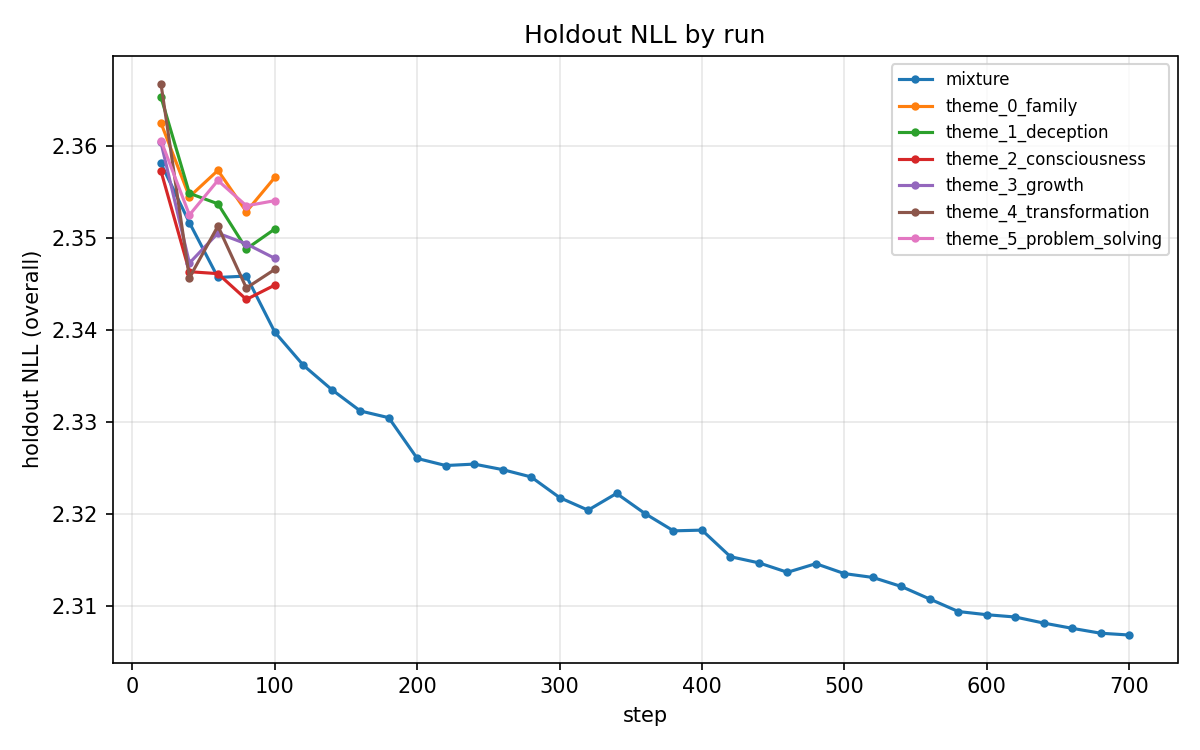
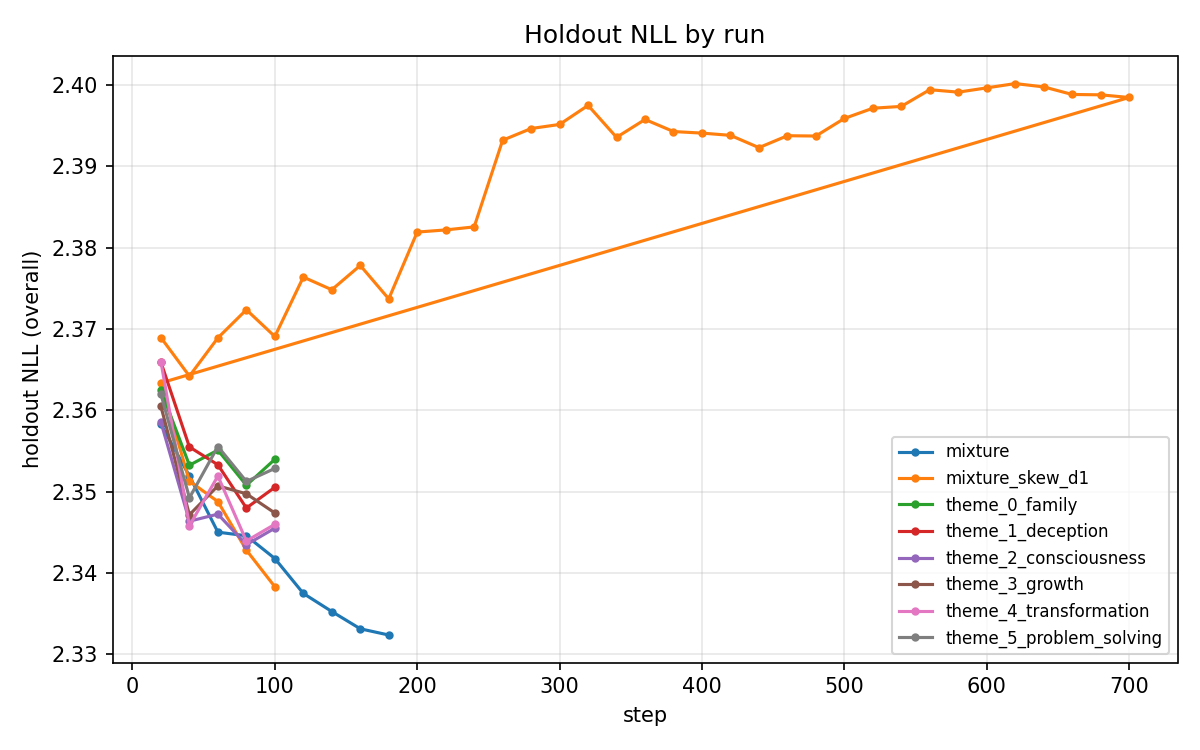
non uniform experiment

diff --git a/eval_skewed.py b/eval_skewed.py
@@ -1,0 +1,98 @@
+"""Re-aggregate a run's per-theme holdout NLL under a skewed weighting.
+
+The training run already wrote per-theme NLL into `<run>/holdout_metrics.jsonl`.
+We just re-weight those columns with `exp(-decay * i)` weights (the same form
+used to build the skewed train mixture) and overlay against the uniform-
+weighted overall NLL.
+
+The point: if the lack of a "productive learning phase" in the skewed-mixture
+run was caused by train/eval distribution mismatch, then evaluating against
+a *matching* skewed holdout should restore an initial decreasing period.
+
+Usage:
+    python eval_skewed.py --run runs/mixture_skew_d1 --decay 1.0
+"""
+
+from __future__ import annotations
+
+import argparse
+import json
+import math
+from pathlib import Path
+
+import matplotlib.pyplot as plt
+import pandas as pd
+
+
+def theme_order(data_dir: Path) -> list[str]:
+    """Return theme names in the same order as `data/theme_<i>_*.jsonl`."""
+    names: list[str] = []
+    for p in sorted(data_dir.glob("theme_*.jsonl")):
+        with p.open(encoding="utf-8") as f:
+            first = json.loads(next(line for line in f if line.strip()))
+        names.append(first["theme"])
+    if not names:
+        raise FileNotFoundError(f"no theme_*.jsonl under {data_dir}")
+    return names
+
+
+def main() -> None:
+    ap = argparse.ArgumentParser()
+    ap.add_argument("--run", required=True, help="path to run dir")
+    ap.add_argument("--data_dir", default="data")
+    ap.add_argument("--decay", type=float, default=1.0)
+    ap.add_argument("--out", default=None,
+                    help="output png path; defaults to <run>/skewed_eval.png")
+    args = ap.parse_args()
+
+    run = Path(args.run)
+    metrics_path = run / "holdout_metrics.jsonl"
+    rows = [json.loads(l) for l in metrics_path.read_text().splitlines() if l.strip()]
+    df = pd.DataFrame(rows).sort_values("step").reset_index(drop=True)
+
+    themes = theme_order(Path(args.data_dir))
+    raw = [math.exp(-args.decay * i) for i in range(len(themes))]
+    z = sum(raw)
+    weights = [w / z for w in raw]
+
+    cols = [f"holdout/nll[{t}]" for t in themes]
+    missing = [c for c in cols if c not in df.columns]
+    if missing:
+        raise SystemExit(f"missing columns in metrics: {missing}")
+
+    df["holdout/nll_skew"] = sum(w * df[c] for w, c in zip(weights, cols))
+
+    out = Path(args.out) if args.out else run / "skewed_eval.png"
+    fig, ax = plt.subplots(figsize=(8, 5))
+    ax.plot(df["step"], df["holdout/nll_overall"], label="uniform holdout",
+            color="C0", marker="o", markersize=3)
+    ax.plot(df["step"], df["holdout/nll_skew"],
+            label=f"skew-weighted holdout (decay={args.decay})",
+            color="C3", marker="o", markersize=3)
+    ax.set_xlabel("step")
+    ax.set_ylabel("holdout NLL")
+    ax.set_title(f"{run.name}: uniform vs skew-weighted holdout")
+    ax.legend()
+    ax.grid(True, alpha=0.3)
+    fig.tight_layout()
+    fig.savefig(out, dpi=150)
+    plt.close(fig)
+
+    print(f"Wrote {out}\n")
+    print("Theme weights:")
+    for t, w in zip(themes, weights):
+        print(f"  {t:<20}  {w:.4f}")
+    print()
+    first, last = df.iloc[0], df.iloc[-1]
+    print(f"step {int(first['step']):>4}:  uniform={first['holdout/nll_overall']:.4f}  "
+          f"skew={first['holdout/nll_skew']:.4f}")
+    print(f"step {int(last['step']):>4}:  uniform={last['holdout/nll_overall']:.4f}  "
+          f"skew={last['holdout/nll_skew']:.4f}")
+    print(f"Δuniform = {last['holdout/nll_overall'] - first['holdout/nll_overall']:+.4f}")
+    print(f"Δskew    = {last['holdout/nll_skew'] - first['holdout/nll_skew']:+.4f}")
+    print(f"min skew = {df['holdout/nll_skew'].min():.4f}  "
+          f"@ step {int(df.loc[df['holdout/nll_skew'].idxmin(), 'step'])}")
+
+
+if __name__ == "__main__":
+    main()

diff --git a/personaDataset.py b/personaDataset.py
@@ -1,5 +1,7 @@
 import json
+import math
 import os
+import random
 from pathlib import Path
 from typing import Sequence
 
@@ -133,6 +135,67 @@ def build_theme_splits(
     paths["holdout"] = holdout_path
 
     return paths
+
+
+def build_skewed_mixture(
+    output_path: str | Path,
+    data_dir: str | Path = "data",
+    decay: float = 1.0,
+    total_size: int | None = None,
+    random_state: int = 0,
+) -> Path:
+    """Build an exp-decay-weighted mixture jsonl from existing per-theme jsonls.
+
+    Reads sorted `data_dir/theme_*.jsonl` (so the uniform holdout is untouched),
+    assigns theme weights w_i = exp(-decay * i) / Z, and samples each theme
+    *with replacement* to hit floor(w_i * total_size) rows. Rounding leftovers
+    go to the highest-weight themes. Default `total_size` matches the sum of
+    the input theme files, i.e. the size of the uniform mixture.
+
+    Theme ordering follows the filename sort, which matches the
+    frequency-rank order produced by `build_theme_splits` (theme_0 = most
+    common in the source split, theme_5 = least).
+    """
+    data_dir = Path(data_dir)
+    theme_files = sorted(data_dir.glob("theme_*.jsonl"))
+    if not theme_files:
+        raise FileNotFoundError(f"no theme_*.jsonl under {data_dir}")
+
+    rows_per_theme: list[list[dict]] = []
+    for p in theme_files:
+        with p.open(encoding="utf-8") as f:
+            rows_per_theme.append([json.loads(line) for line in f if line.strip()])
+
+    n_themes = len(theme_files)
+    raw = [math.exp(-decay * i) for i in range(n_themes)]
+    s = sum(raw)
+    weights = [w / s for w in raw]
+
+    if total_size is None:
+        total_size = sum(len(r) for r in rows_per_theme)
+
+    counts = [int(w * total_size) for w in weights]
+    leftover = total_size - sum(counts)
+    for i in sorted(range(n_themes), key=lambda j: -weights[j])[:leftover]:
+        counts[i] += 1
+
+    rng = random.Random(random_state)
+    all_rows: list[dict] = []
+    for theme_rows, n in zip(rows_per_theme, counts):
+        if n > 0:
+            all_rows.extend(rng.choices(theme_rows, k=n))
+    rng.shuffle(all_rows)
+
+    output_path = Path(output_path)
+    output_path.parent.mkdir(parents=True, exist_ok=True)
+    with output_path.open("w", encoding="utf-8") as f:
+        for r in all_rows:
+            f.write(json.dumps(r) + "\n")
+
+    print(f"Wrote {len(all_rows)} rows to {output_path} (decay={decay})")
+    for p, w, n in zip(theme_files, weights, counts):
+        print(f"  {p.name:<40} weight={w:.4f}  count={n}")
+    return output_path
 
 
 if __name__ == "__main__":
